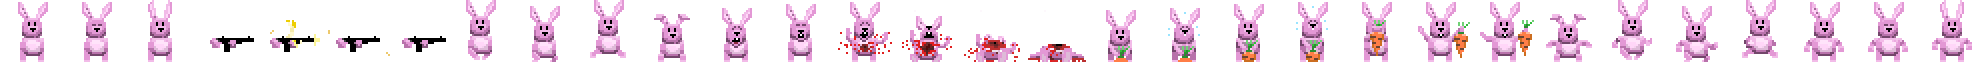
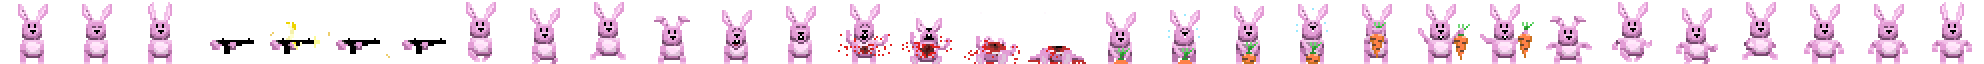
Added some animations

diff --git a/src/js/player.js b/src/js/player.js
@@ -10,23 +10,47 @@
     create: function () {
 
       // Create the player
-      var player = this.game.add.sprite(420, 0, 'player');
+      var player = this.game.add.sprite(0, 0, 'player');
+      player.animations.add('run',[7, 8, 9, 8]);
+      player.animations.add('idle',[0, 1, 0, 2, 0]);
+      player.animations.add('jump',[9]);
+      player.animations.add('fall',[10]);
+      player.animations.add('hurt',[11,12]);
+      player.animations.add('die',[13,14,15,16]);
+      player.animations.add('pull',[17,18,17,18,20,19,20,19,20,21]);
+      player.animations.add('victory',[22,23]);
+
+      player.anchor.set(0.5, 0.5);
 
       // Set some physics
       this.game.physics.arcade.enable(player);
-      player.body.bounce.y = 0.2;
+      player.body.bounce.y = 0;
       player.body.gravity.y = 1000;
       player.body.collideWorldBounds = true;
 
       // Generate a name for the player
       player.name = chance.first();
 
+      // Add weapon
+      player.weapon = this.game.add.sprite(0, 0, 'player');
+      player.weapon.animations.add('idle', [3]);
+      player.weapon.animations.add('fire', [3, 4, 5, ,6, 3]);
+
+
+      player.weapon.anchor.set(0.5, 0.5);
+
+      player.weapon.animations.play('idle');
+      player.weapon.position.x = player.position.x+4;
+      player.weapon.position.y = player.position.y-1;
+      // this.weapon.position = player.position;
+
       // Show the player name
-      var playerName = this.game.add.text(0, -50, player.name, {
-        font: '40px Arial', fill: '#000000'
-      });
-      playerName.x = player.width / 2 - playerName.width / 2;
-      player.addChild(playerName);
+    //   var playerName = this.game.add.text(0, -50, player.name, {
+    //     font: '40px Arial', fill: '#000000'
+    //   });
+    //   playerName.x = player.width / 2 - playerName.width / 2;
+    //   player.addChild(playerName);
+      player.addChild(player.weapon);
 
       // Set the timestamp for the last movement
       player.lastMovement = this.game.time.totalElapsedSeconds();
@@ -39,7 +63,7 @@
       });
 
       // Scale the player to be a bit smaller
-      player.scale.setTo(0.25, 0.25);
+      // player.scale.setTo(0.25, 0.25);
 
       return player;
 
@@ -70,10 +94,14 @@
       // Move left
       if (this.game.input.keyboard.isDown(leftKey)) {
         this.game.player.body.velocity.x = -150;
+        this.game.player.animations.play('run', 10, true);
+        this.game.player.scale.x = -1;
       }
       // Move right
       else if (this.game.input.keyboard.isDown(rightKey)) {
         this.game.player.body.velocity.x = 150;
+        this.game.player.animations.play('run', 10, true);
+        this.game.player.scale.x = 1;
       }
 
       // Jump!
@@ -81,6 +109,15 @@
       if (this.game.input.keyboard.isDown(upKey) && this.game.player.body.touching.down) {
         this.game.player.body.velocity.y = -600;
       }
+
+      if (this.game.player.body.velocity.x == 0 && this.game.player.body.velocity.y == 0) {
+          this.game.player.animations.play('idle', 10, true);
+      }
+
+      if (!this.game.player.body.touching.down) {
+          this.game.player.animations.play('jump', 10, true);
+      }
+
 
       if (this.game.time.totalElapsedSeconds() - this.game.player.lastMovement >= 0.015) {
         this.game.socket.emit('move player', { x: this.game.player.x, y: this.game.player.y, name: this.game.player.name });

diff --git a/src/js/game.js b/src/js/game.js
@@ -95,6 +95,7 @@
       this.enemies = this.add.group();
       this.enemies.enableBody = true;
 
+
     },
 
     update: function () {
@@ -118,20 +119,26 @@
 
     shoot: function () {
 
-      var bullet;
+//      var bullet;
+
+      this.player.weapon.animations.play('fire', 20, false);
+      console.log(this.player);
+
+
 
       // If shooting is allowed, SHOOT!
-      if (this.time.now > this.nextFire && this.bullets.countDead() > 0) {
-        this.nextFire = this.time.now + this.firerate;
-
-        bullet = this.bullets.getFirstDead();
-        bullet.reset(this.player.x, this.player.y);
-        this.physics.arcade.moveToPointer(bullet, 300);
-      }
+    //   if (this.time.now > this.nextFire && this.bullets.countDead() > 0) {
+    //     this.nextFire = this.time.now + this.firerate;
+      //
+    //     bullet = this.bullets.getFirstDead();
+    //     bullet.reset(this.player.x, this.player.y);
+    //     this.physics.arcade.moveToPointer(bullet, 300);
+    //   }
 
     },
 
     enemyShot: function (bullet, enemy) {
+
 
       // Decrease health
       enemy.health -= 20;

diff --git a/src/js/preloader.js b/src/js/preloader.js
@@ -21,7 +21,7 @@
       this.load.setPreloadSprite(this.asset);
 
       // Load all other images
-      this.load.image('player', 'assets/player.png');
+      this.load.spritesheet('player', 'assets/bunny.png', 64, 64);
       this.load.image('black', 'assets/black.png');
       this.load.image('white', 'assets/white.png');
 
